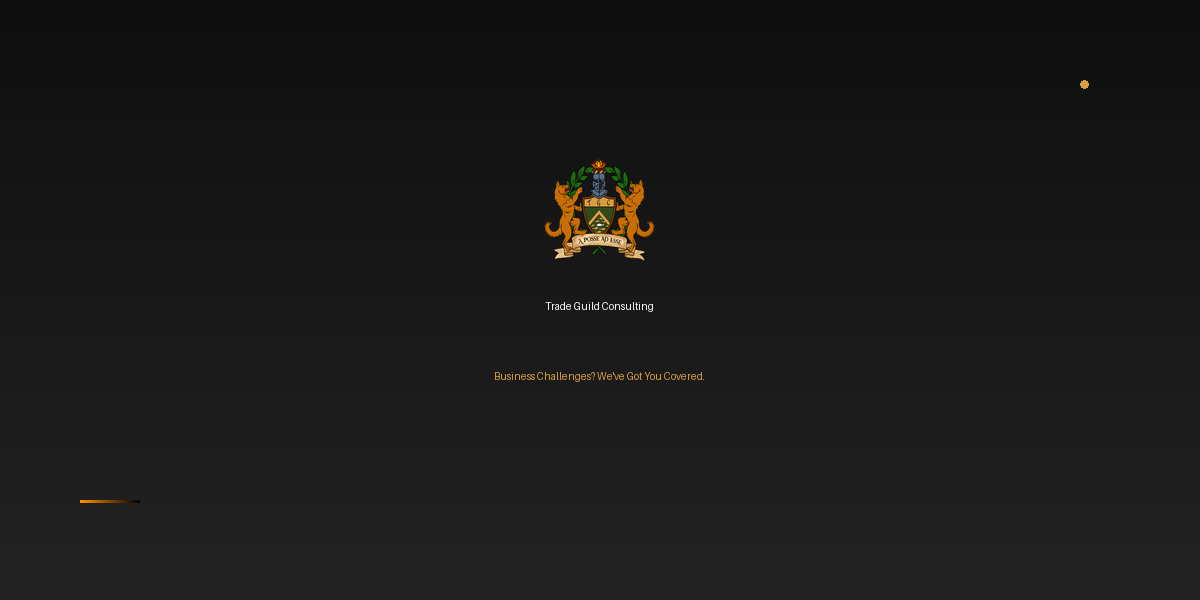
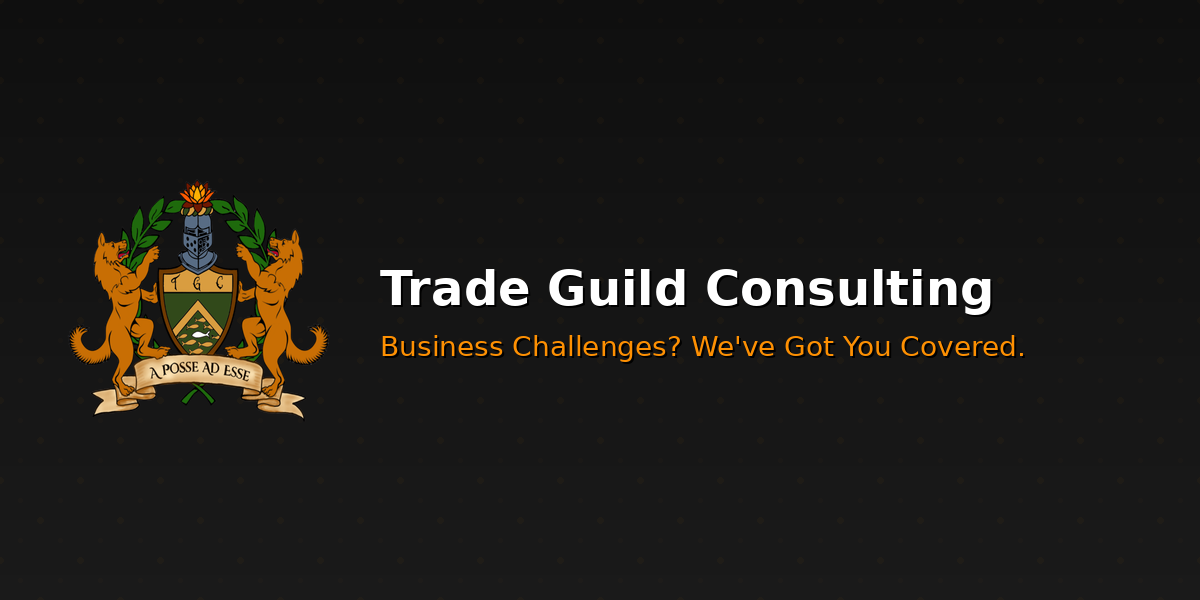
Update Social Image

Changed region(s): [[0.3083, 0.27, 0.8633, 0.63], [0.0617, 0.3, 0.2775, 0.69], [0.0617, 0.81, 0.0925, 0.84]]

diff --git a/scripts/generate_social_image.py b/scripts/generate_social_image.py
@@ -1,0 +1,205 @@
+#!/usr/bin/env python3
+"""
+Generate a social media preview image for Trade Guild Consulting
+Features: Logo, company name, tagline, dark background with dot pattern
+"""
+
+from PIL import Image, ImageDraw, ImageFont, ImageFilter
+import math
+import os
+
+def create_gradient_background(width, height, start_color, end_color):
+    """Create a gradient background from start_color to end_color"""
+    base = Image.new('RGB', (width, height), start_color)
+    top = Image.new('RGB', (width, height), end_color)
+    
+    # Create gradient mask
+    mask = Image.new('L', (width, height))
+    mask_draw = ImageDraw.Draw(mask)
+    
+    for y in range(height):
+        alpha = int(255 * (y / height))
+        mask_draw.rectangle([0, y, width, y+1], fill=alpha)
+    
+    # Apply gradient
+    base.paste(top, (0, 0), mask)
+    return base
+
+def add_dot_pattern(image, dot_color, opacity=20):
+    """Add subtle dot pattern overlay similar to services page"""
+    width, height = image.size
+    overlay = Image.new('RGBA', (width, height), (0, 0, 0, 0))
+    draw = ImageDraw.Draw(overlay)
+    
+    # Create dot pattern
+    dot_spacing = 40
+    dot_sizes = [3, 2, 2]  # Different dot sizes for variety
+    
+    for y in range(0, height + dot_spacing, dot_spacing):
+        for x in range(0, width + dot_spacing, dot_spacing):
+            # Main dots
+            if (x // dot_spacing + y // dot_spacing) % 2 == 0:
+                draw.ellipse([x-dot_sizes[0], y-dot_sizes[0], x+dot_sizes[0], y+dot_sizes[0]], 
+                           fill=(*dot_color, opacity))
+            
+            # Smaller offset dots
+            offset_x, offset_y = x + dot_spacing//2, y + dot_spacing//2
+            if offset_x < width and offset_y < height:
+                draw.ellipse([offset_x-dot_sizes[1], offset_y-dot_sizes[1], 
+                            offset_x+dot_sizes[1], offset_y+dot_sizes[1]], 
+                           fill=(*dot_color, opacity//2))
+    
+    # Blend with original image
+    return Image.alpha_composite(image.convert('RGBA'), overlay).convert('RGB')
+
+def add_floating_elements(image, accent_color):
+    """Add floating geometric elements like on services page"""
+    width, height = image.size
+    overlay = Image.new('RGBA', (width, height), (0, 0, 0, 0))
+    draw = ImageDraw.Draw(overlay)
+    
+    # Floating circles with gradient effect
+    elements = [
+        (100, 150, 40, 15),  # x, y, radius, opacity
+        (width-120, height-180, 60, 10),
+        (width//4, height//2, 30, 8),
+    ]
+    
+    for x, y, radius, opacity in elements:
+        # Create gradient circle
+        for i in range(radius, 0, -2):
+            alpha = int(opacity * (i / radius))
+            draw.ellipse([x-i, y-i, x+i, y+i], 
+                        fill=(*accent_color, alpha))
+    
+    return Image.alpha_composite(image.convert('RGBA'), overlay).convert('RGB')
+
+def get_font(size, bold=False):
+    """Get font with fallbacks"""
+    font_paths = [
+        # Try system fonts
+        "/System/Library/Fonts/Helvetica.ttc",  # macOS
+        "/usr/share/fonts/truetype/dejavu/DejaVuSans-Bold.ttf" if bold else "/usr/share/fonts/truetype/dejavu/DejaVuSans.ttf",  # Linux
+        "C:\\Windows\\Fonts\\arial.ttf",  # Windows
+    ]
+    
+    for font_path in font_paths:
+        try:
+            if os.path.exists(font_path):
+                return ImageFont.truetype(font_path, size)
+        except:
+            continue
+    
+    # Fallback to default font
+    return ImageFont.load_default()
+
+def create_social_image():
+    """Create the main social media preview image"""
+    # Image dimensions for social media (1200x600 is optimal for most platforms)
+    width, height = 1200, 600
+    
+    # Color scheme
+    dark_bg = (26, 26, 26)  # Dark background similar to services page
+    darker_bg = (15, 15, 15)  # Even darker for gradient
+    orange_primary = (254, 144, 2)  # #FE9002
+    orange_secondary = (216, 157, 64)  # #D89D40
+    white = (255, 255, 255)
+    light_gray = (200, 200, 200)
+    
+    # Create gradient background
+    image = create_gradient_background(width, height, darker_bg, dark_bg)
+    
+    # Add dot pattern overlay
+    image = add_dot_pattern(image, orange_primary, opacity=8)
+    
+    # Skip floating elements to remove glare effect
+    # image = add_floating_elements(image, orange_primary)
+    
+    # Load and resize logo
+    try:
+        logo = Image.open('src/images/logo.png')
+        # Resize logo to be even larger and more prominent
+        logo_size = 280
+        logo = logo.resize((logo_size, logo_size), Image.Resampling.LANCZOS)
+        
+        # Position logo on the left side
+        logo_x = 60
+        logo_y = (height - logo_size) // 2
+        
+        # Paste logo directly without glow effect
+        image.paste(logo, (logo_x, logo_y), logo)
+        
+    except Exception as e:
+        print(f"Could not load logo: {e}")
+        # Create a placeholder circle if logo fails to load
+        draw = ImageDraw.Draw(image)
+        draw.ellipse([logo_x, logo_y, logo_x + 180, logo_y + 180], 
+                    fill=orange_primary, outline=white, width=3)
+    
+    # Add text content
+    draw = ImageDraw.Draw(image)
+    
+    # Company name (smaller font)
+    company_font = get_font(48, bold=True)
+    company_text = "Trade Guild Consulting"
+    
+    # Position text to the right of logo, aligned with logo center
+    text_x = logo_x + logo_size + 40
+    text_y_start = logo_y + (logo_size // 2) - 40  # Center text vertically with logo
+    
+    # Add subtle shadow to text
+    shadow_offset = 2
+    draw.text((text_x + shadow_offset, text_y_start + shadow_offset), 
+              company_text, fill=(0, 0, 0, 100), font=company_font)
+    
+    # Main company name
+    draw.text((text_x, text_y_start), company_text, fill=white, font=company_font)
+    
+    # Tagline (smaller font) - now in orange
+    tagline_font = get_font(28)
+    tagline_text = "Business Challenges? We've Got You Covered."
+    tagline_y = text_y_start + 70
+    
+    # Add shadow to tagline
+    draw.text((text_x + shadow_offset, tagline_y + shadow_offset), 
+              tagline_text, fill=(0, 0, 0, 80), font=tagline_font)
+    
+    # Main tagline in orange
+    draw.text((text_x, tagline_y), tagline_text, fill=orange_primary, font=tagline_font)
+    
+    # Remove the three dots - no accent elements
+    
+    return image
+
+def main():
+    """Generate and save the social media image"""
+    print("Generating social media preview image...")
+    
+    try:
+        # Create the image
+        social_image = create_social_image()
+        
+        # Save the image
+        output_path = 'src/images/social-new.png'
+        social_image.save(output_path, 'PNG', quality=95, optimize=True)
+        
+        print(f"✅ Social media image generated successfully!")
+        print(f"📁 Saved to: {output_path}")
+        print(f"📐 Dimensions: {social_image.size[0]}x{social_image.size[1]}px")
+        
+        # Also create a backup of the old image
+        try:
+            old_image = Image.open('src/images/social.png')
+            old_image.save('src/images/social-backup.png')
+            print("📋 Backup of original image created: src/images/social-backup.png")
+        except:
+            print("ℹ  No existing social.png found to backup")
+            
+    except Exception as e:
+        print(f"❌ Error generating image: {e}")
+        return False
+    
+    return True
+
+if __name__ == "__main__":
+    main()
